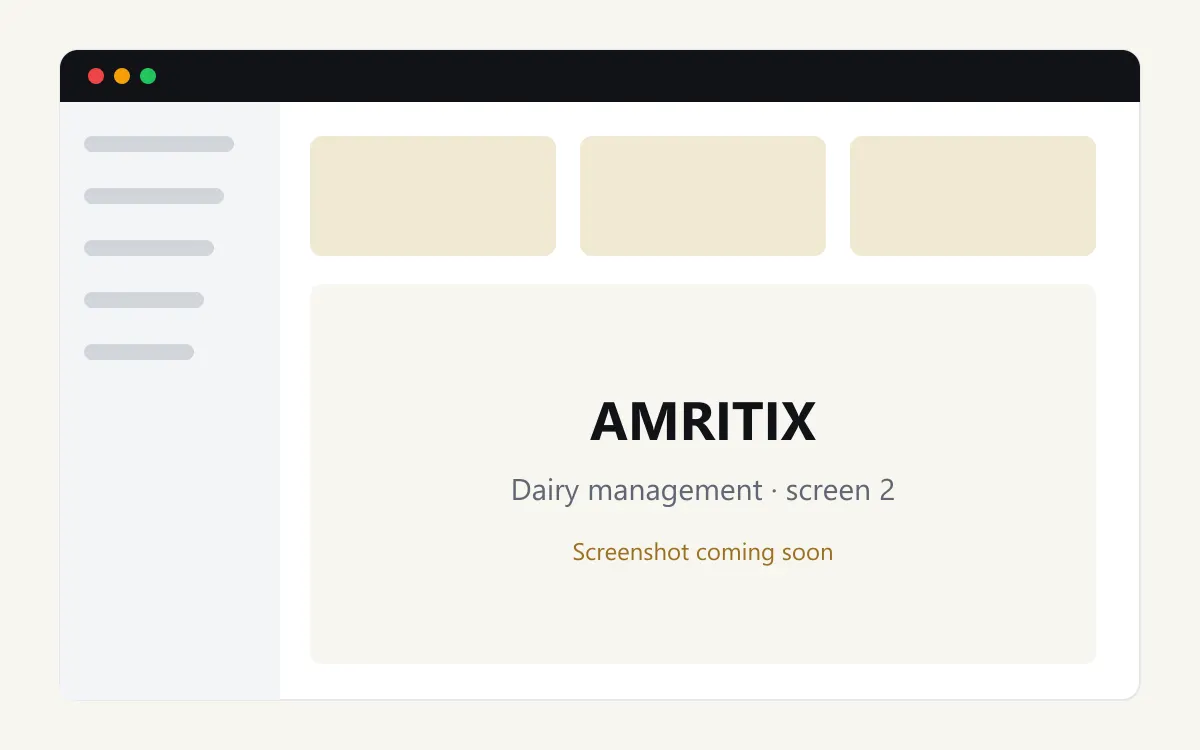
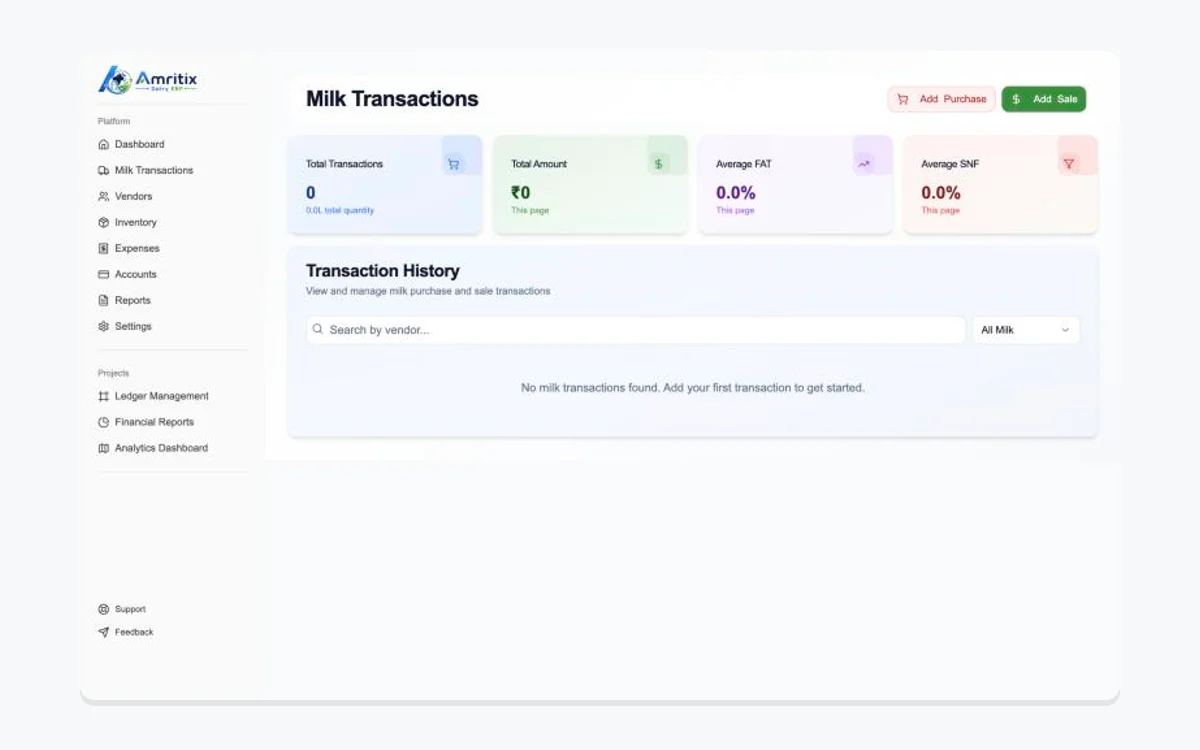
AMRITIX: 6 real screenshots and features from the app
- amritix-1..6.webp from the demo dairy account (Drive folder amritix.shop):
  dashboard, milk transactions, vendors, inventory, expenses, financial
  reports; the demo user e-mail in the sidebar is covered
- Admin screenshots not used
- Features add financial reports (P&L, balance sheet, cash flow, PDF/Excel)
  and ledger/accounts; inventory and expense text matches the screens

diff --git a/config/lalogix.php b/config/lalogix.php
@@ -181,7 +181,15 @@ return [
             'demo' => ['label' => 'Try demo', 'url' => 'https://amritix.shop'],
             'site_url' => 'https://amritix.shop',
             'play_store_url' => 'TODO: Google Play URL',
-            'screenshots' => $shots('amritix', 'AMRITIX', ['milk purchase entry', 'vendor accounts', 'inventory', 'income and expense']),
+            // Real screenshots from the demo dairy account (2026-11-20); demo user e-mail covered.
+            'screenshots' => $shots('amritix', 'AMRITIX', [
+                'dashboard with revenue, expenses, profit and vendors',
+                'milk purchase and sale transactions',
+                'vendor management and pending payments',
+                'inventory of feed, medicine and equipment',
+                'expense records by category',
+                'profit and loss statement with PDF and Excel export',
+            ]),
             'outcomes' => [
                 ['title' => 'Every litre accounted for', 'text' => 'Record milk purchase and sale as it happens, so the daily hisab is always ready.'],
                 ['title' => 'Vendors and stock in one place', 'text' => 'Keep vendor accounts and inventory together instead of in separate registers.'],
@@ -191,8 +199,10 @@ return [
                 ['title' => 'Multi-dairy accounts', 'text' => 'Run more than one dairy from a single login.'],
                 ['title' => 'Vendors', 'text' => 'Keep each vendor and their account in one place.'],
                 ['title' => 'Milk purchase and sale', 'text' => 'Record milk bought and sold, day by day.'],
-                ['title' => 'Inventory', 'text' => 'Track the stock your dairy keeps.'],
-                ['title' => 'Income and expense', 'text' => 'Log income and expenses for each dairy.'],
+                ['title' => 'Inventory', 'text' => 'Buy and sell non-milk items such as feed, medicine and equipment, with stock value.'],
+                ['title' => 'Income and expense', 'text' => 'Log income and expenses for each dairy, sorted into categories.'],
+                ['title' => 'Financial reports', 'text' => 'Profit and loss, balance sheet and cash flow for any period, export to PDF or Excel.'],
+                ['title' => 'Ledger and accounts', 'text' => 'Keep account ledgers alongside your daily entries.'],
                 ['title' => 'Android app', 'text' => 'Use AMRITIX on your phone with the Android app, or on the web panel.'],
             ],
             'who_for' => ['Dairy owners who buy milk from vendors and sell it on', 'Families or partners running more than one dairy', 'Anyone who wants the dairy hisab on a phone instead of a register'],

diff --git a/tests/Feature/WebsiteTest.php b/tests/Feature/WebsiteTest.php
@@ -237,6 +237,6 @@ class WebsiteTest extends TestCase
             $this->assertStringNotContainsString($banned, $text);
         }
         $titles = array_column(config('lalogix.products.amritix.features'), 'title');
-        $this->assertSame(['Multi-dairy accounts', 'Vendors', 'Milk purchase and sale', 'Inventory', 'Income and expense', 'Android app'], $titles);
+        $this->assertSame(['Multi-dairy accounts', 'Vendors', 'Milk purchase and sale', 'Inventory', 'Income and expense', 'Financial reports', 'Ledger and accounts', 'Android app'], $titles);
     }
 }
